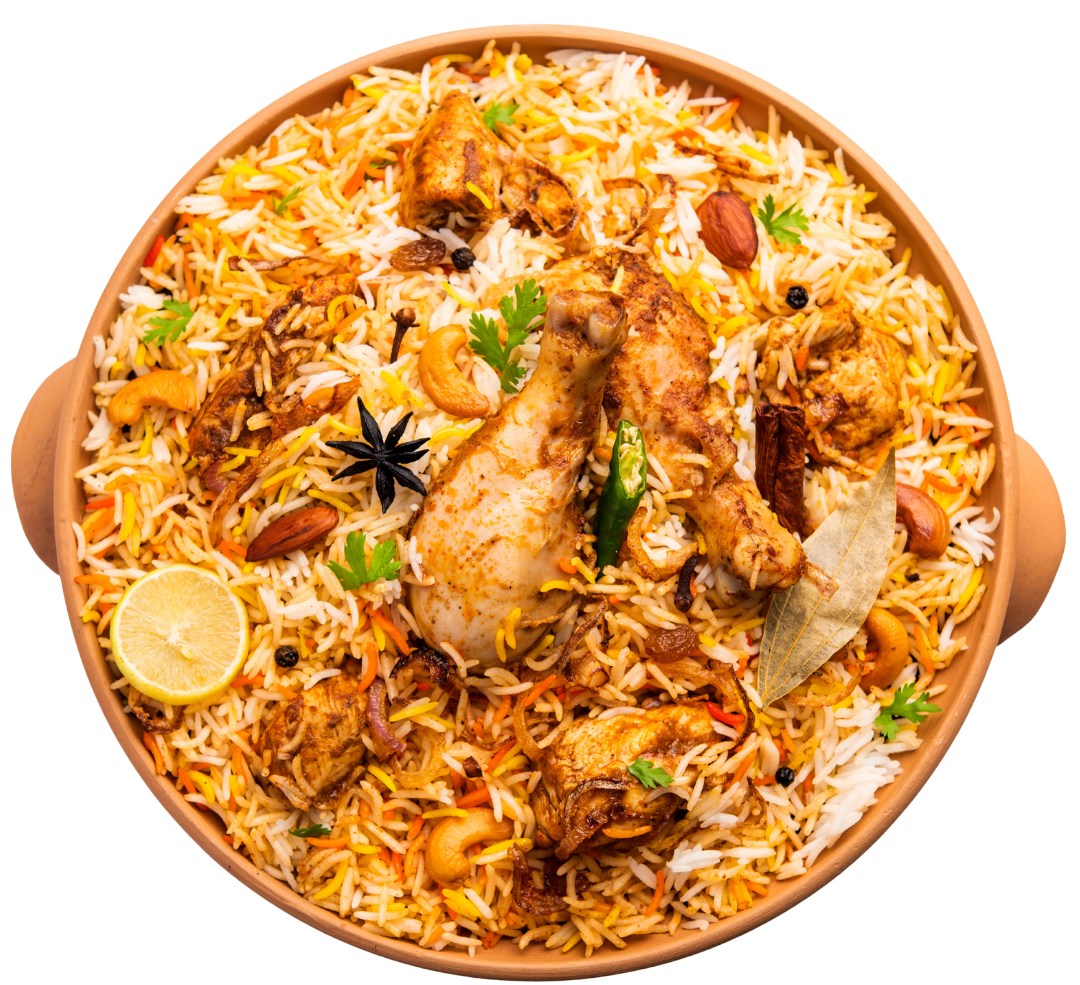
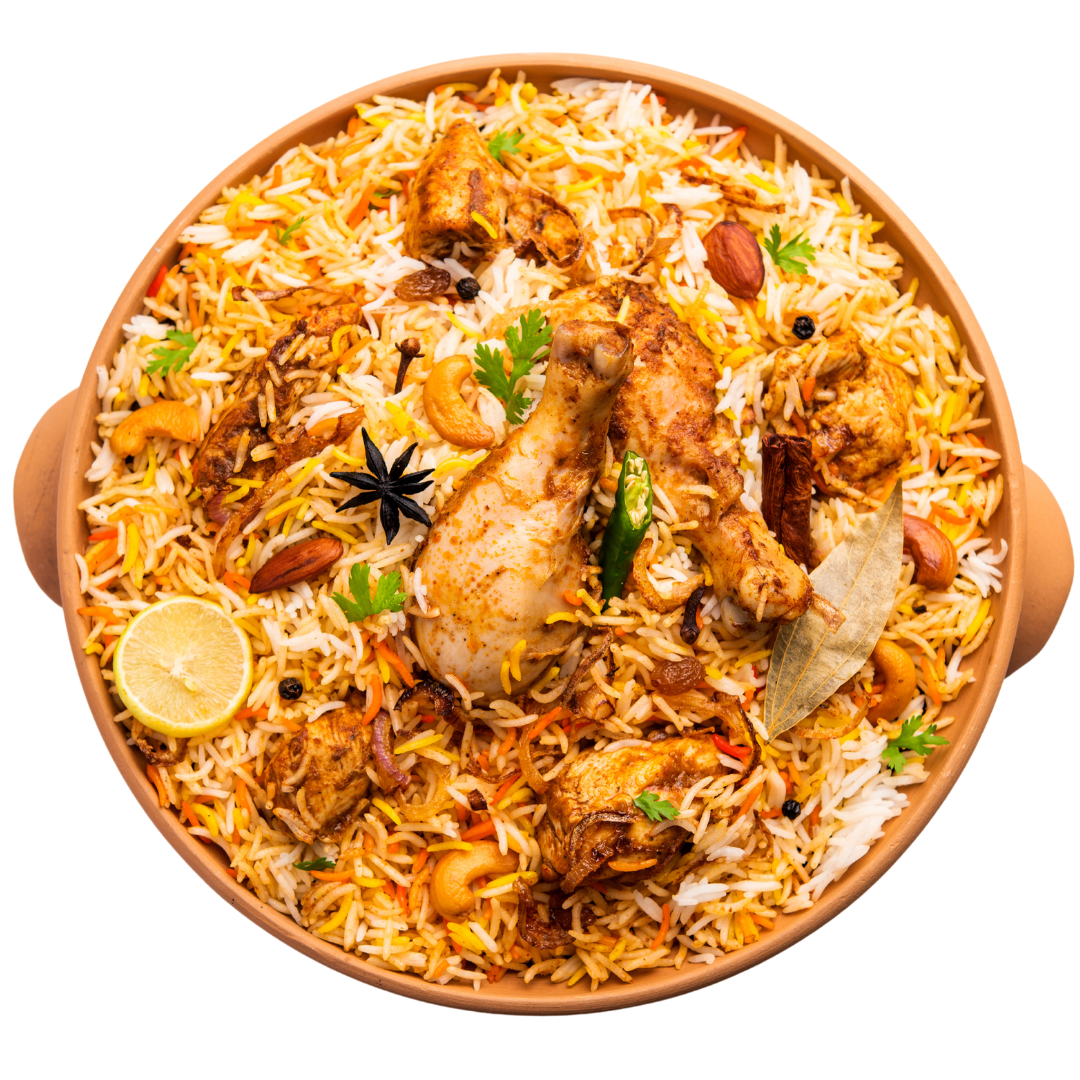
added dish switching functionality to main dishes

diff --git a/index.html b/index.html
@@ -20,7 +20,7 @@
                 </ul>
             </nav>
             <div class="main-panel">
-                <div class="left-main side-main"><img src="./Media/1.png" alt=""><img src="./Media/arrow-left.png" alt=""></div>
+                <div class="left-main side-main"><img class="main-dishes" src="./Media/1.png" alt=""><img src="./Media/arrow-left.png" onclick="arrow1();switchDishes();" alt=""></div>
                 <div class="mid-main">
                     <h1>BULKING</h1>
                     <h2>THE BEST</h2>
@@ -28,7 +28,7 @@
                     <p>At The Bulking, we serve serious fuel for serious gains. Born from the passion for fitness and flavor, our bulking restaurant offers hearty, high-protein meals that pack the punch every athlete craves. From juicy steaks and grilled chicken breasts to protein-packed shakes and energy-loaded sides, each dish is crafted to help you hit your macros while delighting your taste buds.</p>
                         <button>ORDER NOW</button>
                 </div>
-                <div class="right-main side-main"><img src="./Media/2.png" alt=""><img src="./Media/arrow-right.png" alt=""></div>
+                <div class="right-main side-main"><img class="main-dishes" src="./Media/2.png" alt=""><img src="./Media/arrow-right.png" onclick="arrow2();switchDishes();" alt=""></div>
             </div>    
         </section>
 
@@ -37,5 +37,44 @@
         </section>
 
     </div>
+
+    <script>
+        let position = 0;
+        let images = document.querySelectorAll(".main-dishes");
+        function arrow1() {
+            console.log("left")
+            position--;
+            if (position === 4) {
+                position = 0
+            }
+        }
+        function arrow2() {
+            console.log("right")
+            position++;
+            if (position === 4) {
+                position = 0
+            }
+        }
+
+        function switchDishes() {
+            if(position == 0){
+                images[0].src = "./Media/1.png"
+                images[1].src = "./Media/2.png"
+            }
+            if(position == 1){
+                images[0].src = "./Media/2.png"
+                images[1].src = "./Media/3.png"
+            }
+            if(position == 2){
+                images[0].src = "./Media/3.png"
+                images[1].src = "./Media/4.png"
+            }
+            if(position == 3){
+                images[0].src = "./Media/4.png"
+                images[1].src = "./Media/1.png"
+            }
+        }
+        
+    </script>
 </body>
 </html>

diff --git a/style.css b/style.css
@@ -61,16 +61,24 @@ ul > a{
 img[src="./Media/arrow-left.png"]{
     width: 70px;
     margin-top: 20px;
+    cursor: pointer;
 }
 img[src="./Media/arrow-right.png"]{
     width: 70px;
     margin-top: 20px;
+    cursor: pointer;
 }
 img[src="./Media/2.png"]{
     width: 600px;
 }
 img[src="./Media/1.png"]{
-    width: 630px;
+    width: 600px;
+}
+img[src="./Media/3.png"]{
+    width: 600px;
+}
+img[src="./Media/4.png"]{
+    width: 600px;
 }
 h1{
     font-size: 43.8pt;
